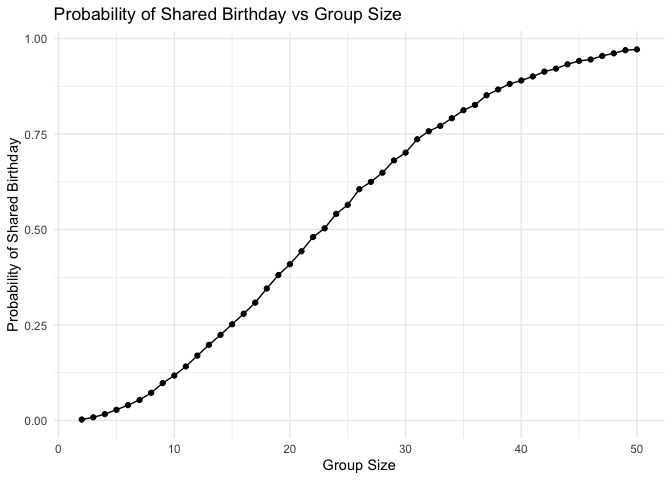
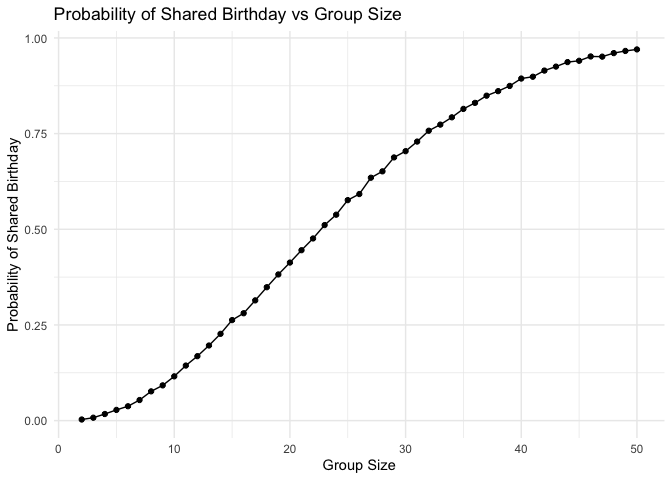
update

diff --git a/p8105_hw5_jc6422.md b/p8105_hw5_jc6422.md
@@ -37,16 +37,16 @@ results
     ## # A tibble: 49 × 2
     ##    group_size probability
     ##         <int>       <dbl>
-    ##  1          2      0.0026
-    ##  2          3      0.0083
-    ##  3          4      0.0168
-    ##  4          5      0.0281
-    ##  5          6      0.0402
-    ##  6          7      0.0537
-    ##  7          8      0.0725
-    ##  8          9      0.0978
-    ##  9         10      0.118 
-    ## 10         11      0.141 
+    ##  1          2      0.0029
+    ##  2          3      0.0076
+    ##  3          4      0.0173
+    ##  4          5      0.028 
+    ##  5          6      0.0376
+    ##  6          7      0.0538
+    ##  7          8      0.0765
+    ##  8          9      0.0921
+    ##  9         10      0.116 
+    ## 10         11      0.144 
     ## # ℹ 39 more rows
 
 Make a plot showing the probability as a function of group size.
@@ -269,6 +269,9 @@ conf_high
 ```
 
     ## [1] 0.6631599
+
+Based on the result, the estimate proportion is 0.646, and the 95% CI is
+\[0.628, 0.663\]
 
 Run `prop.test` for each of the cities in the dataset, and create a tidy
 dataframe with estimated proportions and CIs for each city.
